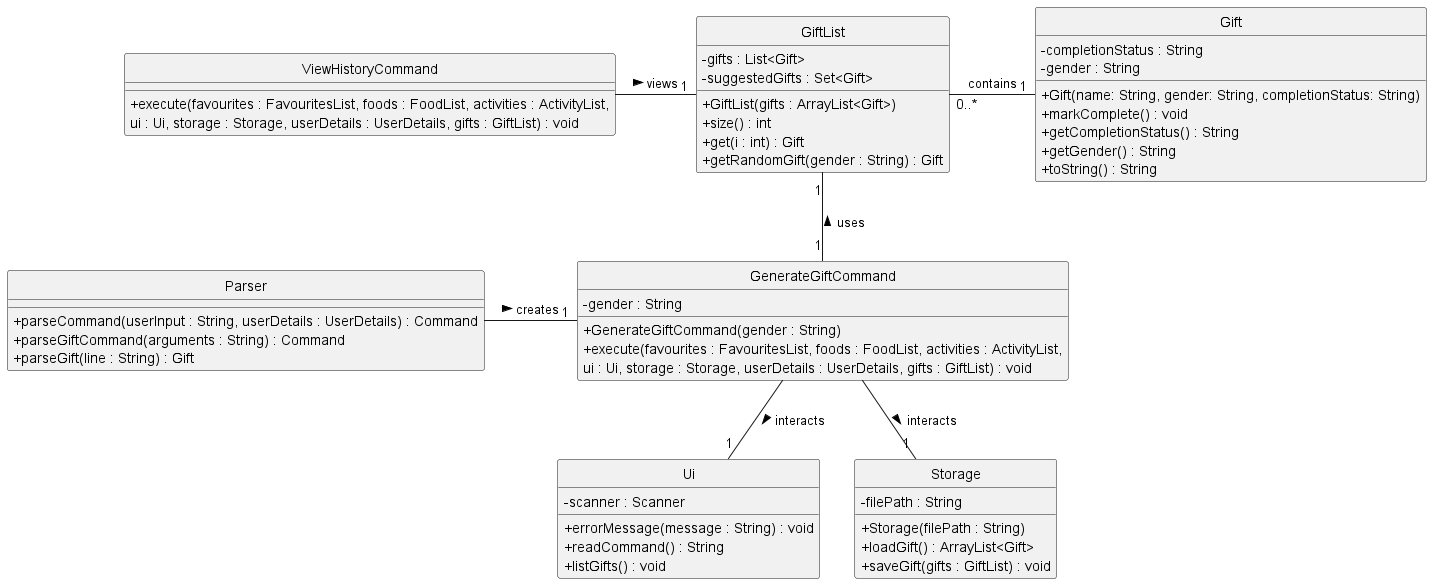
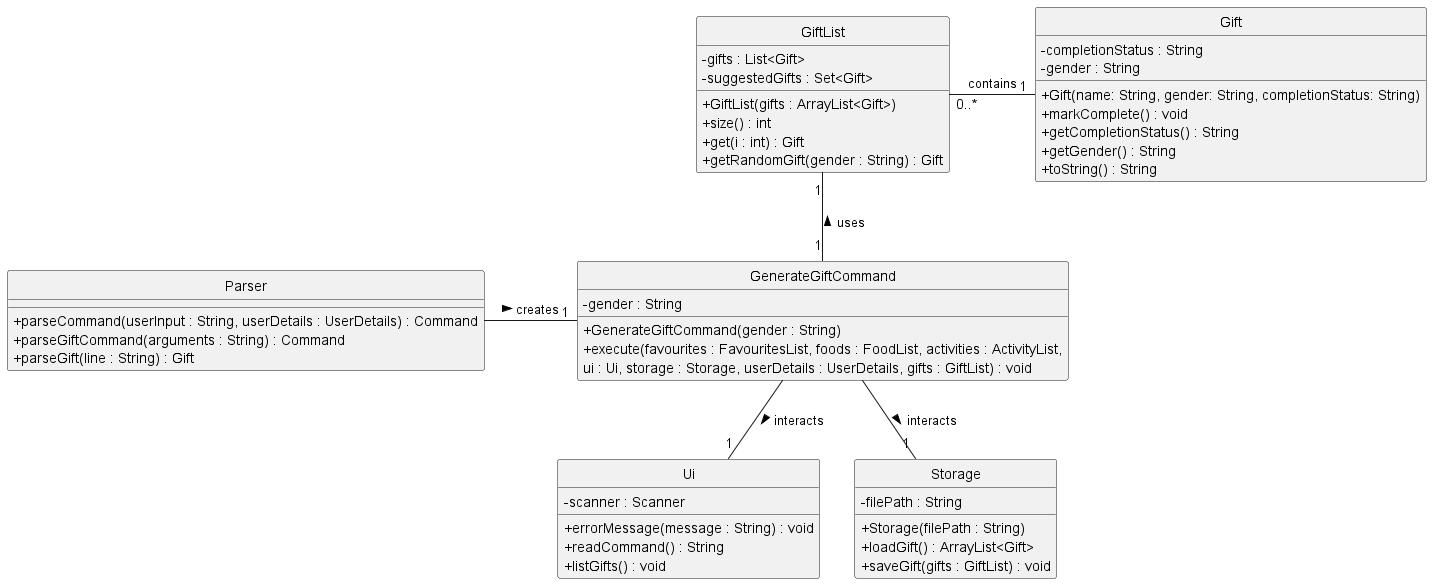
Update DG to reflect changes and enhancements in gift feature

Changed region(s): [[0.0922, 0.0925, 0.4302, 0.2466], [0.5223, 0.7089, 0.5838, 0.7397], [0.4302, 0.1233, 0.4916, 0.1541]]

diff --git a/docs/DeveloperGuide.md b/docs/DeveloperGuide.md
@@ -128,98 +128,67 @@ The following activity diagram summarises how the history database is displayed 
 
 This feature enhances the user experience by offering access to a curated list of gift ideas and enabling the generation of random gift suggestions. 
 
-### Feature Components and Interaction
+#### Feature Components and Interaction
 
-The feature comprise several key components:
+The feature comprise several key components.
 
-- `Gift` Class: Extends `Favourites` class to include gift-specific attributes.
-- `GiftList` Class: Manages a collection of `Gift` objects.
-- `GenerateGiftCommand` Class: Handles the logic for generating random gift suggestions.
-- `ListOptionsCommands` Class: Provides functionality to list gifts among other options of food and activity.
-- `ViewHistoryCommand` Class: Displays a history of saved gift ideas.
-- `Storage` Class: Manages data persistence for gifts.
+**`Gift` Class:**
+- Inherits from the `Favourites` class.
+- Adds specific attributes like `gender` and `completionStatus` to manage gift properties effectively.
+- Methods such as `markComplete()` to change the status once a gift is accepted by the user.
+
+**`GiftList` Class:**
+- Manages a collection (`ArrayList<Gift>`) of gifts and keeps track of which gifts have been suggested (`HashSet<Gift>`).
+- Includes functionality to retrieve a random gift that hasn't been suggested or marked as complete, enhancing the user experience by providing fresh suggestions.
+
+**`GenerateGiftCommand` Class:**
+- Executes the process of fetching and suggesting a gift from the `GiftList`.
+- Handles user interactions during the suggestion process, processing responses to either continue suggesting, accept the gift, or exit the suggestion loop.
+
+**`Ui` Class:**
+- Facilitates user interaction by displaying messages and capturing user input, which guides the flow of the gift suggestion process.
+
+**`Storage` Class:**
+- Responsible for loading and saving gift data to ensure that the `GiftList` is persistent across sessions, maintaining the state of which gifts have been suggested or accepted.
+
+**`Parser` Class:**
+- Interprets user commands and directs the application to execute specific actions based on the user input, such as initiating the gift suggestion process.
 
 <img src="images/GiftClassDiagram.png">
 
-**Component Interaction Flow:**
-1. Initialisation
+**Component Interaction Flow**
 
-    - The `Storage` class loads existing gift data from the `GiftList.txt` file into a `GiftList` object at application startup. 
-    - Users interact with the gift-related feature via commands `list`, `gift`, `history`.
+**1. Initialisation**
+- The `Storage` class loads existing gift data from the `GiftList.txt` file into a `GiftList` object at application startup. 
+- This ensures that the application remembers which gifts have been previously suggested or marked as complete.
    
-2. Listing Gifts
-
-    - The `ListOptionsCommand` interprets user input to display the `GiftList` when user inputs `gifts` after `list` command input.
-    - This interaction leverages the `Ui` class to output the list to the user.
+**2. Command Parsing**
+- The `Parser` class determines when the `GenerateGiftCommand` should be activated based on user input (e.g., `gift`, `gift male`, `gift female`, or `gift unisex`). 
+- It creates an instance of this command with the specified gender parameter.
    
-3. Generating Gift Suggestions
+**3. Generating Gift Suggestions**
+- The `GenerateGiftCommand` interacts with the `GiftList` to fetch a random gift that matches the specified gender and hasn’t been completed or previously suggested.
+- If a gift is available, it is presented to the user through the `Ui` class, which asks whether the user is satisfied with the suggestion.
 
-    - Upon `gift` command input, `GenerateGiftCommand` is triggered.
-    - It fetches a random gift from `GiftList` that is not previously marked as complete (`C`).
-    - The user's satisfaction response is handled in a loop that continuously generate new suggestions until `yes` is received, at which point the gift is marked as complete.
-   
-4. View Gift History
+**4. User Interaction Loop**
+- The user's response is handled in a loop:
+  - Accept (yes): The gift’s `markComplete()` method is called, and the gift is marked as completed.
+  - Reject (no): Another gift suggestion is fetched from the `GiftList`, and the process repeats.
+  - Exit (cancel): Exits the gift suggestion loop and ends the command execution.
 
-    - The `ViewHistoryCommand` displays gifts marked as complete, showing the user's previously accepted suggestions.
-
-5. Data Saving
-
-    - Changes to gift selections are persisted back to the `GiftList.txt` file via `Storage`, ensuring user choices are saved across different sessions.
+**5. Data Saving**
+- After exiting the loop (either through acceptance of a gift or cancellation), the `Storage` class updates the gift data file to reflect any changes (e.g., marking a gift as complete).
 
 <img src="images/GiftSequenceDiagram.png">
-
-#### Detailed Implementation
-
-`Gift` Class
-
-- The `Gift` class inherits from `Favourites`, adding a `completionStatus` attribute. 
-- Each `Gift` object holds a description and a completion status to track if the gift has been selected by the user.
-
-`GiftList` Class
-
-- The `GiftList` class maintains a collection of `Gift` objects using `ArrayList<Gift>`.
-- It includes methods to access the size of the list, retrieve a specific gift, and fetch a random gift suggestion, filtering out already selected gifts.
-
-`Command` Classes
-
-- `GenerateGiftCommand` executes the logic for interactive gift suggestions, incorporating user feedback loops until a satisfactory gift is found.
-- `ListOptionsCommand` segregates listing functionality by the type of list requested by the user (food, activities, gifts), specifically isolating the gift listing process.
-- `ViewHistoryCommand` compiles and presents a history of gifts that have been marked as complete.
-
-`Storage` Class
-
-- The `Storage` class is crucial for loading gift data at startup and saving updates when gifts are marked complete. 
-- It utilises Java's I/O and Collections to manage the lifecycle of gift data within the application.
 
 #### Design Considerations
 
 - Using a class hierarchy where `Gift` extends `Favourites` allows for easy addition of new types of favourites in the future.
 - Segregating functionalities into distinct classes (`Gift`, `GiftList`, `GenerateGiftCommand`, etc.) enhances modularity, making the codebase more maintainable and scalable.
 - Random selection from the `GiftList` ensures a diverse range of suggestions, enhancing user experience by preventing repetitive recommendations.
-- The interactive approval process for gift suggestions enhances user engagement, making the feature more dynamic and responsive to user preferences.
 - Utilising a text file for storing gift data ensures simplicity and reliability, avoiding over-complication with external databases or dependencies.
-
-#### Future Enhancements: Gender-Specific Recommendations
-
-Enhance the gift suggestion feature to provide gender-specific recommendations, allowing the users to refine their searches based on the recipient's gender. 
-
-This enhancement aims to offer more personalised and relevant gift options, improving user satisfaction and the applicability of suggestions.
-
-**Implementation Overview**
-
-The implementation of gender-specific gift recommendations would involve extending the current `Gift` class structure, modifying the `GiftList` management logic, and updating the `GenerateGiftCommand` to interpret and act on additional user inputs specifying gender preferences.
-
-- `Gift` class enhancement: Include a new attribute for gender specificity. This attribute could take values such as "male", "female", or "unisex", indicating the intended recipient's gender for the gift.
-- `GiftList` class adjustments: Update to filter gift suggestions based on the new gender attribute. This might involve adding a method to retrieve a random gift filtered by the specified gender.
-- `GenerateGiftCommand` modifications: Revise this command to accept and process additional arguments for gender, altering the random gift selection logic to utilise the updated `getRandomGift` method in `GiftList`.
-
-**User Interaction Flow**
-
-The command syntax for generating gift suggestions would be expanded to allow for optional gender specification: `gift`, `gift male`, or `gift female`. This modification enables the application to cater to a broader range of user intentions and preferences, enhancing the personalised nature of the gift suggestion feature.
-
-- By enabling gender-specific gift suggestions, the application can provide more targeted and relevant options, increasing the likelihood of user satisfaction.
-- This enhancement also retains flexibility by allowing users to opt for non-gendered suggestions when preferences are not specified or when seeking more universally appealing gift ideas.
-
+- By enabling gender-specific gift suggestions, the application can provide more targeted and relevant options.
+- At the same time, it also retains flexibility by allowing users to opt for non-gendered suggestions when preferences are not specified.
 
 ## Product scope
 ### Target user profile
